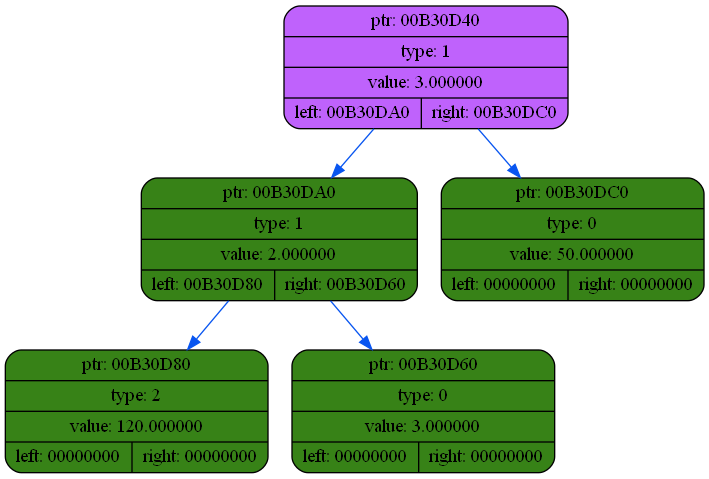
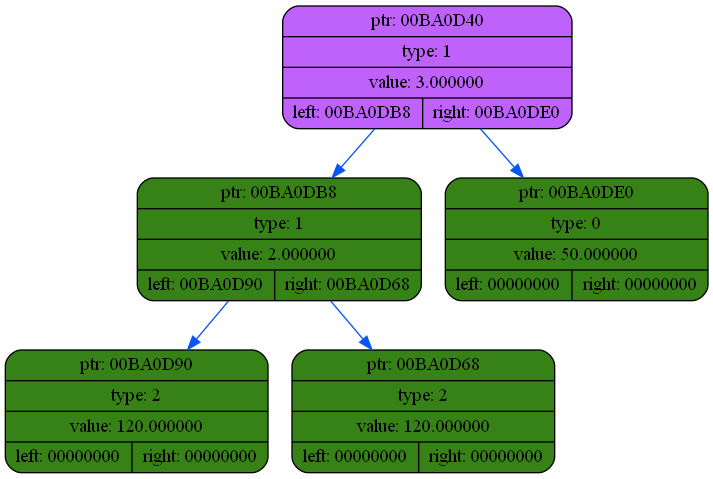
optimisation

diff --git a/list_dump.html b/list_dump.html
@@ -5,3 +5,15 @@ MEMORY PRINT
 MEMORY PRINT
 
 <img src=dump\dump2.png>
+MEMORY PRINT
+
+<img src=dump\dump3.png>
+MEMORY PRINT
+
+<img src=dump\dump4.png>
+MEMORY PRINT
+
+<img src=dump\dump5.png>
+MEMORY PRINT
+
+<img src=dump\dump6.png>

diff --git a/src/diff_tree.cpp b/src/diff_tree.cpp
@@ -1,4 +1,5 @@
 #include "diff_tree.h"
+#include "tree_dump.h"
 
 const double Global_x = 2.0;
 
@@ -27,6 +28,21 @@ node_t* new_node(node_type type, double value, node_t* left, node_t* right)
     node -> right = right;
 
     return node;
+}
+
+void fix_parents(node_t* node)
+{
+    assert(node);
+    if (node -> right) {(node -> right) -> parent = node;}
+    if (node -> left)  {(node -> left) ->  parent = node;}
+}
+
+void fix_tree(node_t* node)
+{
+    assert(node);
+    fix_parents(node);
+    if (node -> right) { fix_parents(node -> right); }
+    if (node -> left)  { fix_parents(node -> left);  }
 }
 
 int read_tree(node_t** node, FILE* stream, FILE* html_stream)
@@ -131,15 +147,20 @@ node_t* diff(node_t* node)
     return NULL;
 }
 
-void optimize(node_t* node)
+void optimize(node_t* node, FILE* html_stream)
 {
     assert(node);
 
     size_t opt_counter = 1;
     while (opt_counter > 0)
     {
-        opt_counter = const_folding(node);
+        opt_counter = 0;
+        opt_counter += const_folding(node);
+        opt_counter += remove_neutral_elems(&node);
+
+        tree_dump(node, html_stream, node);
     }
+
 }
 
 size_t const_folding(node_t* node)
@@ -156,8 +177,96 @@ size_t const_folding(node_t* node)
         node -> left  = NULL; node -> right = NULL;
         opt_counter++;
     }
-    if (node -> left)  { opt_counter += const_folding(node -> left);}
-    if (node -> right) { opt_counter += const_folding(node -> right);}
+    if (node -> left)  { opt_counter += const_folding(node -> left);  }
+    if (node -> right) { opt_counter += const_folding(node -> right); }
+
+    return opt_counter;
+}
+
+size_t remove_neutral_elems(node_t** node)
+{
+    assert(node);
+
+    size_t opt_counter = 0;
+    if ((*node) -> type == OP)
+    {
+        switch((int)(*node) -> value)
+        {
+            case ADD: opt_counter += ADD_optimisation(node); printf("ADD OPTIMISATION\n"); break;
+            case SUB: opt_counter += SUB_optimisation(node); printf("SUB OPTIMISATION\n"); break;
+            case MUL: opt_counter += MUL_optimisation(node); printf("MUL OPTIMISATION\n"); break;
+            //case POW: opt_counter += POW_optimisation(&node); break;
+            default: break;
+        }
+    }
+
+    if ((*node) -> left)  { opt_counter += remove_neutral_elems(&(*node) -> left);  }
+    if ((*node) -> right) { opt_counter += remove_neutral_elems(&(*node) -> right); }
+
+    return opt_counter;
+}
+
+size_t ADD_optimisation(node_t** node)
+{
+    assert(node);
+    assert(*node);
+
+    size_t opt_counter = 0;
+    if      (((*node) -> left)  -> type == NUM && ((*node) -> left)  -> value == 0) { *node = (*node) -> right; opt_counter++; }
+    else if (((*node) -> right) -> type == NUM && ((*node) -> right) -> value == 0) { *node = (*node) -> left;  opt_counter++; }
+
+    return opt_counter;
+}
+
+size_t SUB_optimisation(node_t** node)
+{
+    assert(node);
+    assert(*node);
+
+    size_t opt_counter = 0;
+    if (((*node) -> right) -> type == NUM && ((*node) -> right) -> value == 0) { *node = (*node) -> left;  opt_counter++; }
+
+    return opt_counter;
+}
+
+size_t MUL_optimisation(node_t** node)
+{
+    assert(node);
+    assert(*node);
+
+    size_t opt_counter = 0;
+    if (((*node) -> left)  -> type == NUM)
+    {
+        if      (((*node) -> left) -> value == 0) { *node = (*node) -> left;  opt_counter++; }
+        else if (((*node) -> left) -> value == 1) { *node = (*node) -> right; opt_counter++; }
+
+    }
+    else if (((*node) -> right) -> type == NUM)
+    {
+        if      (((*node) -> right) -> value == 0) { *node = (*node) -> right; opt_counter++; }
+        else if (((*node) -> right) -> value == 1) { *node = (*node) -> left;  opt_counter++; }
+    }
+
+    return opt_counter;
+}
+
+size_t POW_optimisation(node_t** node)
+{
+    assert(node);
+    assert(*node);
+
+    size_t opt_counter = 0;
+    if (((*node) -> left)  -> type == NUM)
+    {
+        if      (((*node) -> left) -> value == 0) { *node = (*node) -> left; opt_counter++; }
+        else if (((*node) -> left) -> value == 1) { *node = (*node) -> left; opt_counter++; }
+
+    }
+    else if (((*node) -> right) -> type == NUM)
+    {
+        if      (((*node) -> right) -> value == 0) { *node = _NUM(1);         opt_counter++; }
+        else if (((*node) -> right) -> value == 1) { *node = (*node) -> left; opt_counter++; }
+    }
 
     return opt_counter;
 }

diff --git a/headers/diff_tree.h b/headers/diff_tree.h
@@ -17,28 +17,42 @@ enum operations {
 
 enum node_type {NUM, OP, VAR};
 
-struct node_t {
+struct node_t
+{
     node_type type;
     double value;
     node_t* left;
     node_t* right;
+    node_t* parent;
 };
 
+//== TREE FUNCTIONS =========================================================================//
 node_t* new_node(node_type type, double value, node_t* left, node_t* right);
+void fix_parents(node_t* node);
+void fix_tree(node_t* node);
+int tree_dtor(node_t* node);
 
+//== READING AND DUMPING ====================================================================//
 int read_tree(node_t** node, FILE* stream, FILE* html_stream);
 node_t* read_node(FILE* stream);
 void skip_until(char ch, FILE* stream);
 
+//== CALCULATIONS ===========================================================================//
 double eval (node_t* node);
 node_t* diff(node_t* node);
 
-void optimize(node_t* node);
+//== OPTIMISATION ===========================================================================//
+void optimize(node_t* node, FILE* html_stream);
 size_t const_folding(node_t* node);
 
+size_t remove_neutral_elems(node_t** node);
+size_t ADD_optimisation(node_t** node);
+size_t MUL_optimisation(node_t** node);
+size_t SUB_optimisation(node_t** node);
+size_t POW_optimisation(node_t** node);
+
+//== SECONDARY FUNCTIONS ====================================================================//
 node_t* copy_tree(node_t* root);
 bool check_vars(node_t* node);
-
-int tree_dtor(node_t* node);
 
 #endif

diff --git a/src/main.cpp b/src/main.cpp
@@ -9,7 +9,7 @@ int main()
         return -1;
 
     node_t* root  = new_node(OP, DIV, NULL, NULL);
-    root -> left  = new_node(OP, MUL, new_node(VAR, 'x', NULL, NULL), new_node(NUM, 3, NULL, NULL));
+    root -> left  = new_node(OP, MUL, new_node(VAR, 'x', NULL, NULL), new_node(VAR, 'x', NULL, NULL));
     root -> right = new_node(NUM, 50, NULL, NULL);
     tree_dump(root, html_stream, root);
 
@@ -17,8 +17,9 @@ int main()
 
     node_t* diff_root = diff(root);
 
+    tree_dump(diff_root, html_stream, diff_root);
     printf("diff eval: %lf\n", eval(diff_root));
-    optimize(diff_root);
+    optimize(diff_root, html_stream);
     printf("optimized: %p", diff_root);
 
     tree_dump(diff_root, html_stream, diff_root);
